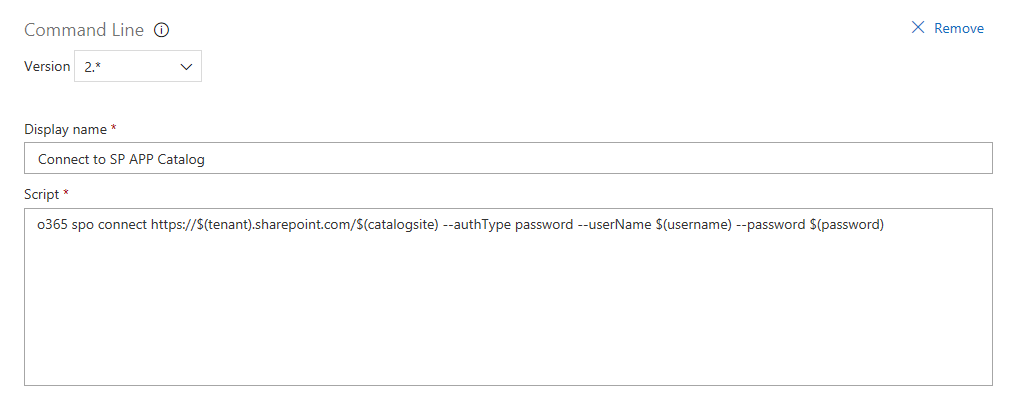
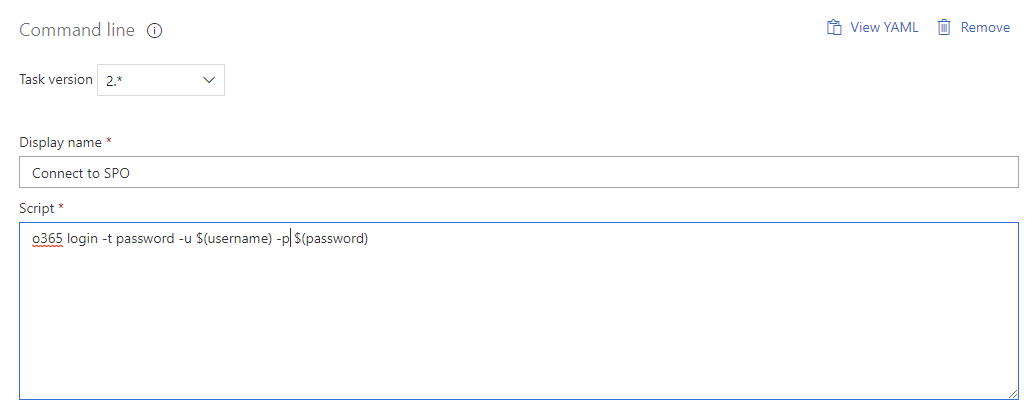
spfx cicd: Fixed a bug where an update to office 365 cli would break the deployment script (#4715)

diff --git a/docs/spfx/toolchain/implement-ci-cd-with-azure-devops.md b/docs/spfx/toolchain/implement-ci-cd-with-azure-devops.md
@@ -205,8 +205,8 @@ The Office 365 Common Language Interface (CLI) is an open source project built b
 > [!NOTE] 
 > Learn more about the [Office 365 CLI](https://pnp.github.io/office365-cli/)
 
-### Connecting to the App Catalog
-Before using the App Catalog in your deployment environment, you first need to authenticate against the App Catalog of your tenant.  To do so, add a `Command Line` task and paste in the following command into the `script` field `o365 spo login https://$(tenant).sharepoint.com/$(catalogsite) --authType password --userName $(username) --password $(password)
+### Connecting to SharePoint Online
+Before using the App Catalog in your deployment environment, you first need to authenticate against the App Catalog of your tenant.  To do so, add a `Command Line` task and paste in the following command into the `script` field `o365 login -t password -u $(username) -p $(password)
 `
 ![connecting to the app catalog](../../images/azure-devops-spfx-15.png)
 
@@ -220,14 +220,20 @@ Upload the solution package to your App Catalog by adding another `Command Line`
 > [!NOTE] 
 > The path of the package depends on your solution name (see your project configuration) as well as the `Source Alias` you defined earlier, make sure they match.
 
+> [!NOTE] 
+> You can upload a solution to a site collection app catalog by adding `--appCatalogUrl https://$(tenant).sharepoint.com/$(catalogsite) --scope site`
+
 ![uploading the package to the catalog](../../images/azure-devops-spfx-16.png)
 
 ### Deploying the Application
 
-The final step in the setup is to deploy the application to the App Catalog to make it available to all site collections within the tenant as its latest version. Add another `Command Line` task and paste the following command line in the `Script` field `o365 spo app deploy --name sp-fx-devops.sppkg --appCatalogUrl https://$(tenant).sharepoint.com/$(catalogsite)`
+The final step in the setup is to deploy the application to the App Catalog to make it available to all site collections within the tenant as its latest version. Add another `Command Line` task and paste the following command line in the `Script` field `o365 spo app deploy --name sp-fx-devops.sppkg`
 
 > [!NOTE] 
 > Make sure you update the package name.
+
+> [!NOTE] 
+> You can deploy a solution from a site collection app catalog by adding `--appCatalogUrl https://$(tenant).sharepoint.com/$(catalogsite) --scope site`
 
 ![Deploying the package to the catalog](../../images/azure-devops-spfx-17.png)
 
@@ -237,10 +243,10 @@ The tasks you configured in the last step rely on Azure DevOps process variables
 Add the following variables
 | Name | Value |
 | ------ | ------ |
-| catalogsite | Server relative Path of the App Catalog Site eg `sites/appcatalog` |
+| catalogsite | Optional. Server relative Path of the App Catalog Site eg `sites/appcatalog` when uploading to a [site collection App Catalog](../../general-development/site-collection-app-catalog) |
 | password | Password of the user with administrative permissions on the tenant, do not forget to check the lockpad to mask it to other users |
 | username | Username of the user with administrative permissions on the tenant |
-| tenant | Tenant name in https://tenant.sharepoint.com eg `tenant` |
+| tenant | Optional. Tenant name in https://tenant.sharepoint.com eg `tenant` when uploading to a site collection App Catalog |
 
 ![Variables setup](../../images/azure-devops-spfx-18.png)  
 
